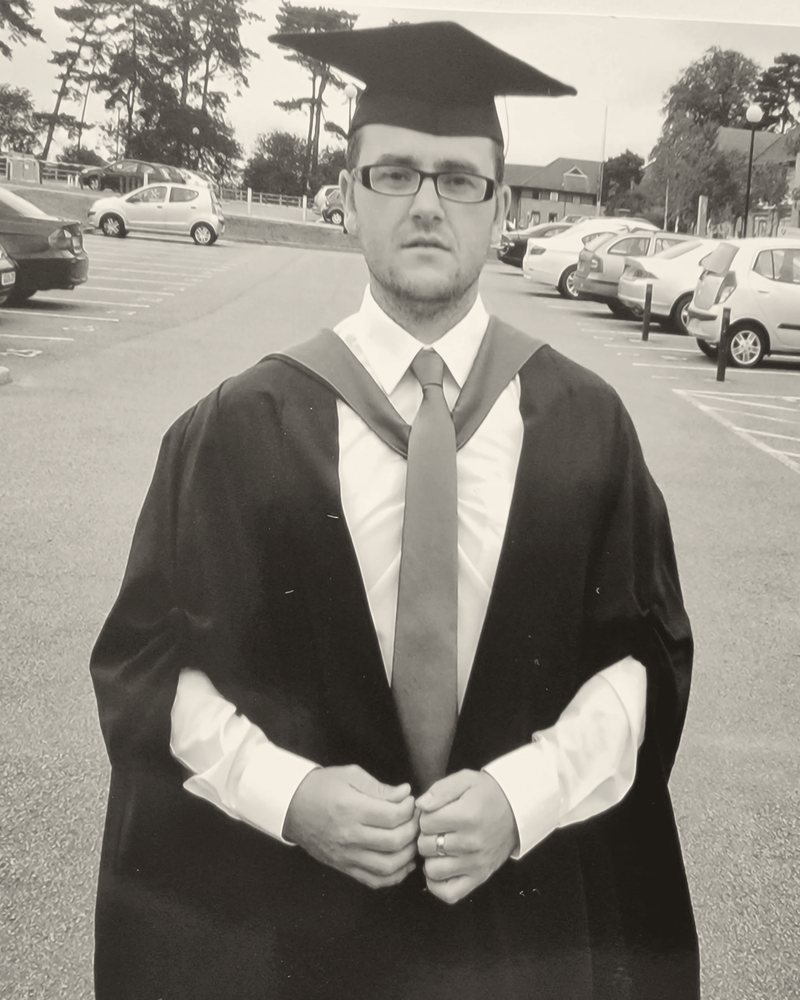
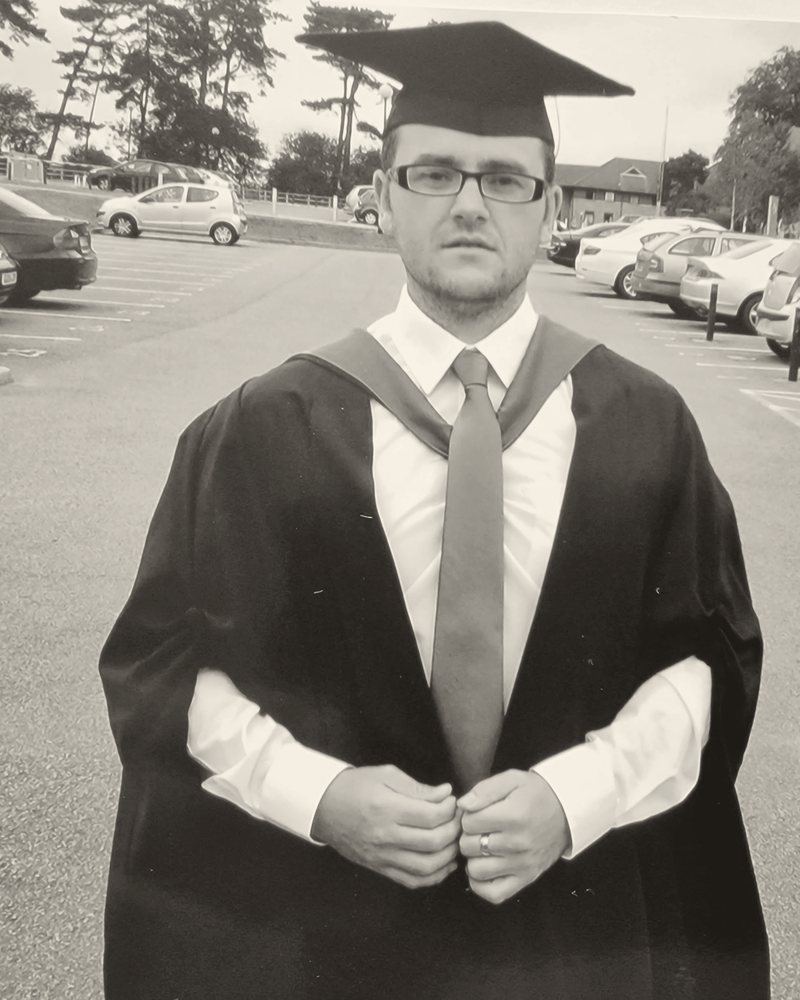
Pictures centred, Places sections take matched pairs, two stretched crops redone
Louie and the graduation were squeezed out of shape by a short crop; both are recut
at their true proportions. The 2022 Delapre Abbey group and the 2023 workshop join
Community and Work.

Claude-Session: https://claude.ai/code/session_01N63PBufyL4WE9E9PBbx9Nq

diff --git a/assets/site.css b/assets/site.css
@@ -95,17 +95,20 @@ a:focus-visible,button:focus-visible,input:focus-visible,textarea:focus-visible,
 .moment .when{margin:0;font-size:clamp(25px,3.8vw,33px);line-height:1.15;color:var(--accent);font-style:italic}
 .moment h2{margin:3px 0 4px;font-size:1.14em;font-weight:600;line-height:1.25}
 .moment p{margin:0}
-.moment .fig{display:inline-block;vertical-align:top;width:calc(50% - 8px);max-width:300px;margin-top:14px}
-.moment .fig:nth-of-type(odd){margin-right:14px}
-.moment .fig:only-of-type,.moment .fig.wide{display:block;width:auto;margin-right:0}
-.moment .fig.wide{max-width:100%}
-@media (max-width:560px){.moment .fig,.moment .fig:nth-of-type(odd){display:block;width:auto;margin-right:0}}
+.moment .figs{display:flex;flex-wrap:wrap;justify-content:center;align-items:flex-start;gap:14px;margin-top:16px}
+.moment .figs .fig{flex:1 1 220px;max-width:300px}
+.moment .figs .fig.wide{flex-basis:100%;max-width:100%}
 .role{padding:22px 0;border-top:1px solid var(--line-soft)}
 .role .where{margin:0;font-size:.86em;font-style:italic;color:var(--accent)}
 .role h2{margin:2px 0 0;font-size:clamp(26px,3.6vw,31px);font-weight:500;line-height:1.2}
 .role .org{margin:2px 0 8px;font-style:italic;color:var(--muted)}
 .role p{margin:0}
-.role .fig{max-width:300px;margin-top:14px}
+.role .fig{max-width:300px;margin:16px auto 0}
+.secfigs{display:flex;flex-wrap:wrap;justify-content:center;align-items:flex-start;gap:16px;margin:0 auto 22px}
+.secfigs .fig{flex:0 0 auto;max-width:100%}
+.secfigs .fig img{height:300px;width:auto;max-width:100%;object-fit:contain}
+.secfigs .fig figcaption{contain:inline-size}
+@media (max-width:640px){.secfigs .fig{flex:1 1 100%}.secfigs .fig img{height:auto;width:100%}}
 .figpair{display:flex;flex-wrap:wrap;justify-content:center;gap:14px;max-width:900px;margin:22px auto 0}
 .figpair .fig{flex:1 1 200px;max-width:290px}
 .role .more{margin:8px 0 0;font-style:italic}

diff --git a/templates/places.html b/templates/places.html
@@ -15,7 +15,7 @@
   <p class="ordinal">{{.1}}</p>
   <h2 class="h2" style="margin-top:2px">{{.}}</h2>
   <p class="sub" style="margin:6px auto 22px">{{.2}}</p>
-  {{#if .6}}{{#refs .6}}<figure class="fig" style="max-width:420px;margin:0 auto 22px"><img src="{{root}}/pictures/{{plain:.}}" alt="{{plain:.2}}"><figcaption>{{.1}}</figcaption></figure>{{/refs}}{{/if}}
+  {{#if .6}}<div class="secfigs">{{#refs .6}}<figure class="fig"><img src="{{root}}/pictures/{{plain:.}}" alt="{{plain:.2}}"><figcaption>{{.1}}</figcaption></figure>{{/refs}}</div>{{/if}}
   <div class="grid2">
     {{#each .4}}{{#if .1}}<article class="g"><h3 class="h3">{{.}}</h3><p>{{.1}}</p>{{#if .5}}<p class="more"><a href="{{url:.6}}">{{.5}} →</a></p>{{/if}}</article>{{/if}}{{/each}}
   </div>

diff --git a/templates/story.html b/templates/story.html
@@ -14,7 +14,7 @@
     <p class="when">{{.}}</p>
     <h2>{{.1}}</h2>
     <p>{{.2}}</p>
-    {{#if .3}}{{#refs .3}}<figure class="fig{{#if .3}} wide{{/if}}"><img src="{{root}}/pictures/{{plain:.}}" alt="{{plain:.2}}"><figcaption>{{.1}}</figcaption></figure>{{/refs}}{{/if}}
+    {{#if .3}}<div class="figs">{{#refs .3}}<figure class="fig{{#if .3}} wide{{/if}}"><img src="{{root}}/pictures/{{plain:.}}" alt="{{plain:.2}}"><figcaption>{{.1}}</figcaption></figure>{{/refs}}</div>{{/if}}
   </article>
   {{/each}}
 </div>
